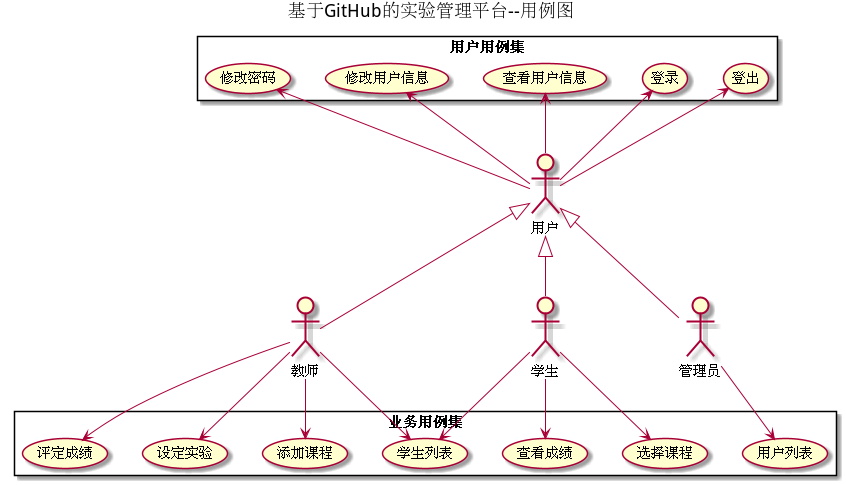
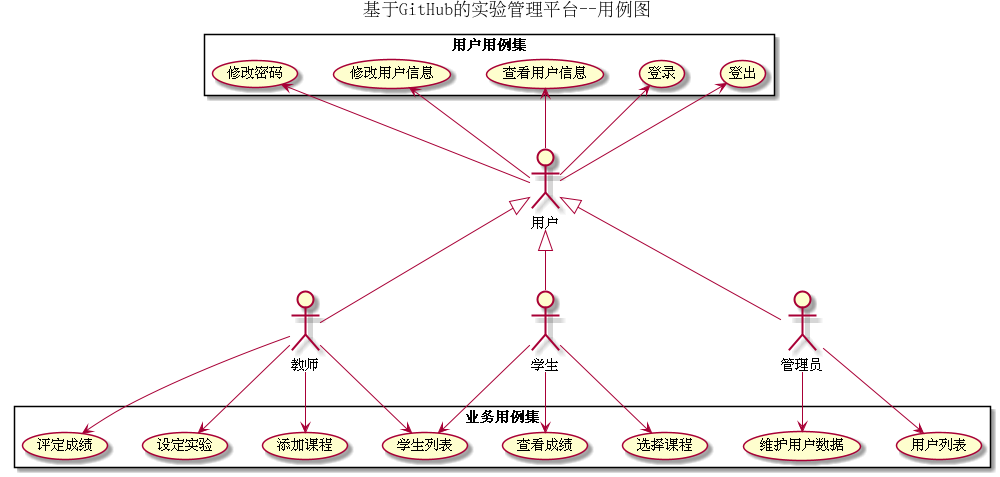
实验五

diff --git a/test6/Markdown/test.html b/test6/Markdown/test.html
@@ -1,7 +1,11 @@
-# "登录"用例 [返回](../README.md#6)
-## 1.用例规约
-
-<table>
+<!DOCTYPE html>
+<html lang="en">
+<head>
+    <meta charset="UTF-8">
+    <title>Title</title>
+</head>
+<body>
+<table border="1" cellspacing="0" cellpadding="0" >
     <tr>
         <td width="150"> <b>&nbsp;用例名称</b></td>
         <td colspan="2" width="700">&nbsp;登录</td>
@@ -31,12 +35,36 @@
             <br>
             <span>&nbsp;</span>
             <br>
-            <span>&nbsp;3.用户进入系统；</span> 
+            <span>&nbsp;3.用户进入系统；</span>
+            <br>
+            <span>&nbsp;</span>
+            <br>
+            <span>&nbsp;5.管理员选择对读者信息的具体维护功能；</span>
+            <br>
+            <span>&nbsp;</span>
+            <br>
+            <span>&nbsp;7.管理员对读者信息进行操作，并提交；</span>
+            <br>
+            <span>&nbsp;</span>
+            <br>
+            <span>&nbsp;9.管理员确认更新，用例结束；</span>
         </td>
         <td width="480">
             <span>&nbsp;</span>
             <br>
             <span>&nbsp;2.系统查询信息是否合法；</span>
+            <br>
+            <span>&nbsp;</span>
+            <br>
+            <span>&nbsp;4.系统列出各项对读者的维护功能；</span>
+            <br>
+            <span>&nbsp;</span>
+            <br>
+            <span>&nbsp;6.系统根据所选择的功能显示功能界面；</span>
+            <br>
+            <span>&nbsp;</span>
+            <br>
+            <span>&nbsp;8.系统将更改的读者信息进行更新，并反馈更新结果；</span>
             <br>
             <span>&nbsp;</span>
         </td>
@@ -66,3 +94,5 @@
         </td>
     </tr>
 </table>
+</body>
+</html>

diff --git a/test6/README.md b/test6/README.md
@@ -40,6 +40,7 @@
 * ["修改用户信息"用例](./Markdown/ModifyUserInfo.md)，[界面](./puml/SystemClass.puml)
 * ["修改密码"用例](./Markdown/ModifyPassword.md)，[界面](./puml/SystemClass.puml)
 * ["用户列表"用例](./Markdown/AllUserList.md)，[界面](./puml/SystemClass.puml)
+* ["维护用户数据"用例](./Markdown/MaintainUserInfo.md)，[界面](./puml/SystemClass.puml)
 * ["学生列表"用例](./Markdown/AllStudentList.md)，[界面](./puml/SystemClass.puml)
 * ["添加课程"用例](./Markdown/AddCourse.md)，[界面](./puml/SystemClass.puml)
 * ["设定实验"用例](./Markdown/AddTests.md)，[界面](./puml/SystemClass.puml)

diff --git a/test6/Markdown/MaintainUserInfo.md b/test6/Markdown/MaintainUserInfo.md
@@ -1,0 +1,1 @@
+# "维护用户数据"用例 [返回](../README.md#6)
